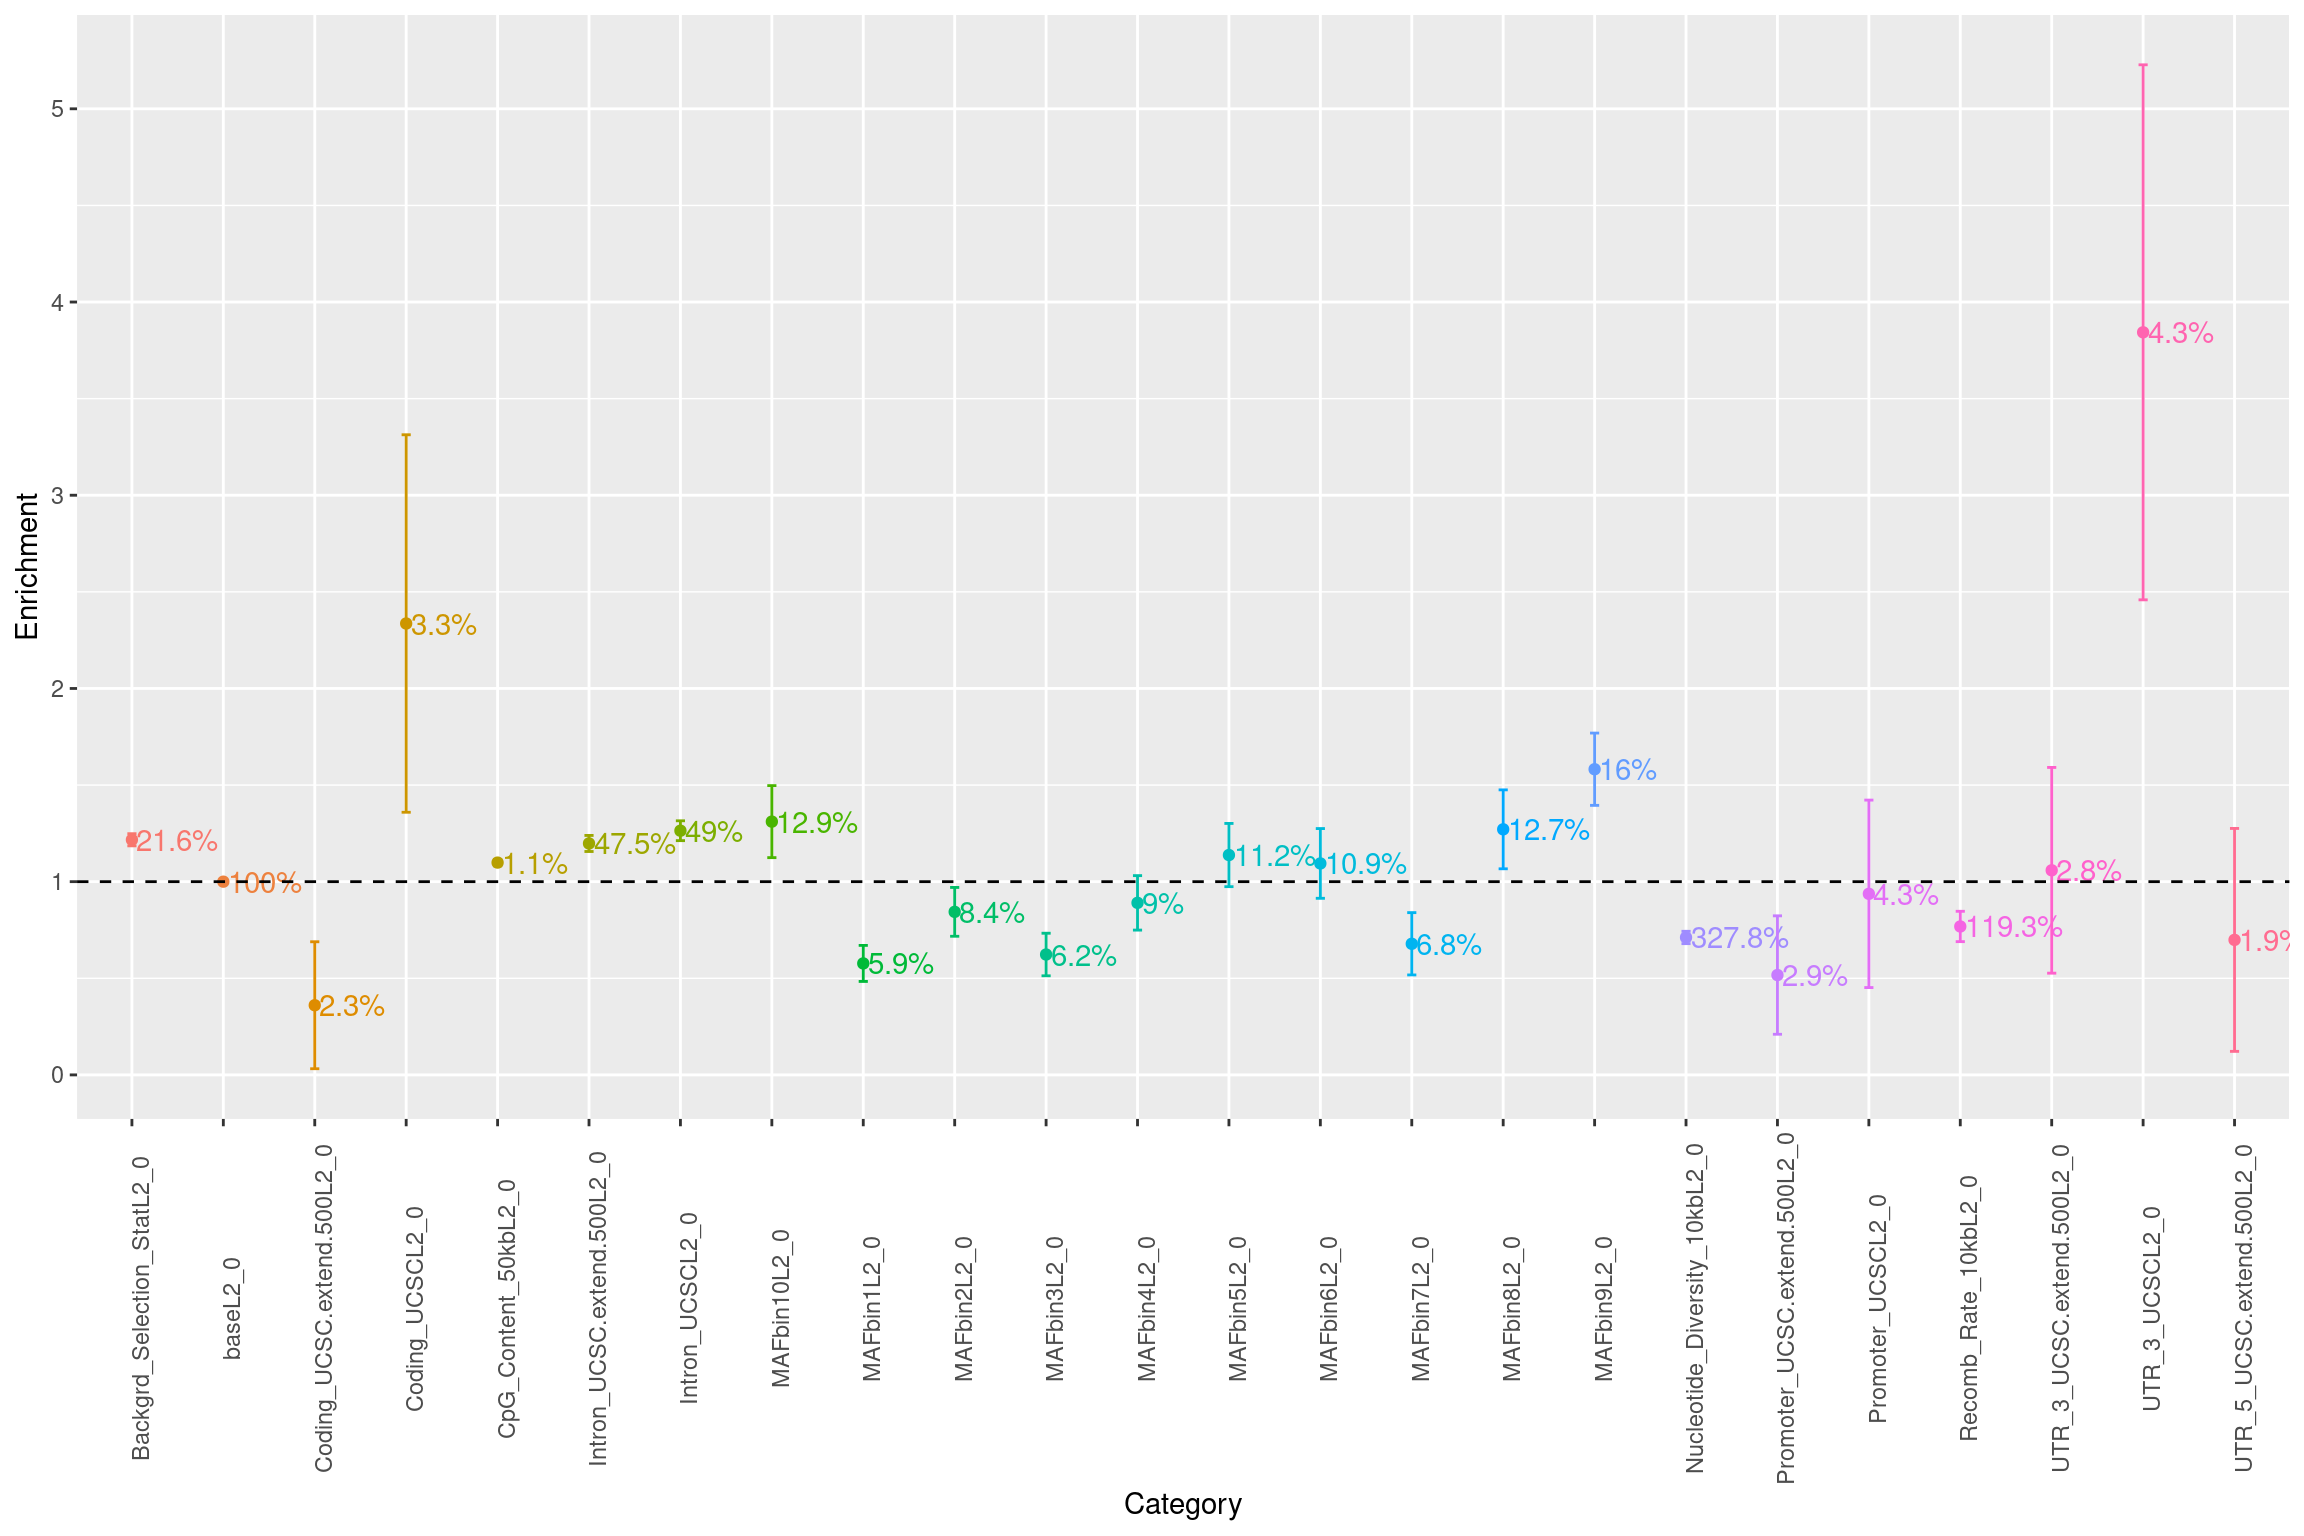
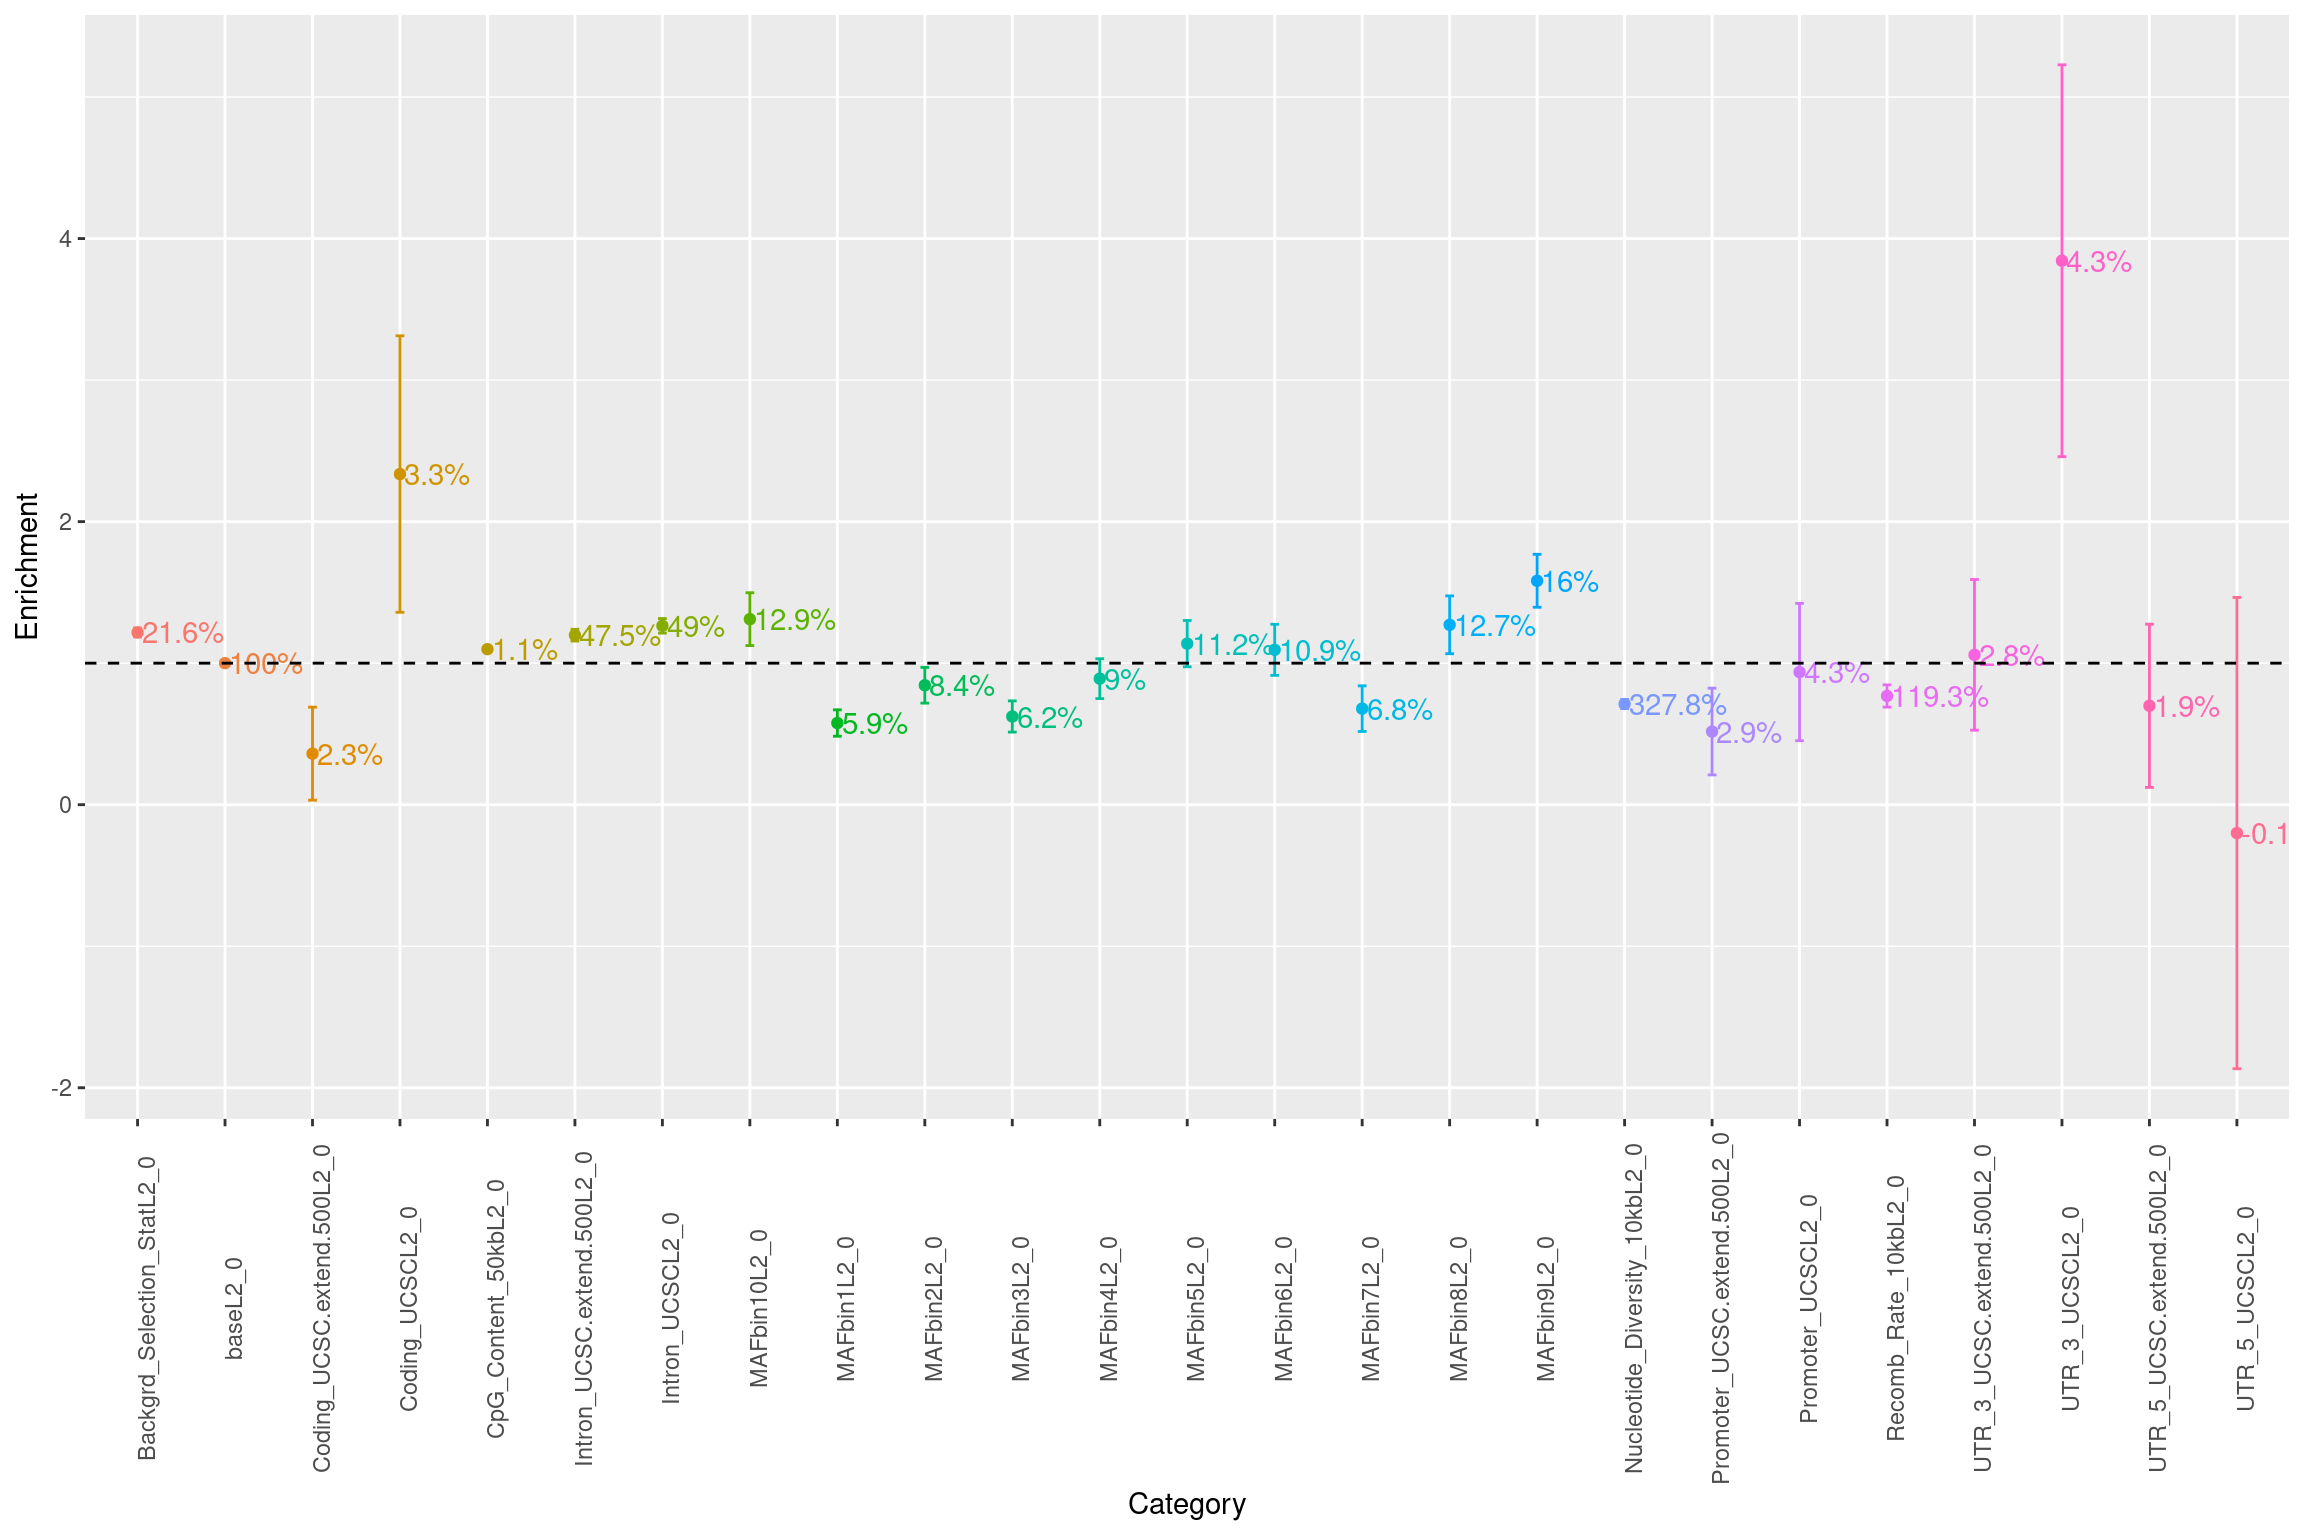
PTR annotations

diff --git a/docs/annotations_PTR.html b/docs/annotations_PTR.html
@@ -370,7 +370,7 @@ div.tocify {
 <div class="tab-content">
 <div id="summary" class="tab-pane fade in active">
 <p>
-<strong>Last updated:</strong> 2022-07-05
+<strong>Last updated:</strong> 2022-07-09
 </p>
 <p>
 <strong>Checks:</strong> <span class="glyphicon glyphicon-ok text-success" aria-hidden="true"></span> 5 <span class="glyphicon glyphicon-exclamation-sign text-danger" aria-hidden="true"></span> 2
@@ -493,16 +493,16 @@ data/qqplot_SNPs_high_spliceAI.png
 <div class="panel panel-default">
 <div class="panel-heading">
 <p class="panel-title">
-<a data-toggle="collapse" data-parent="#workflowr-checks" href="#strongRepositoryversionstrongahrefhttpsgithubcomj3gufuncFinemappingtree7f557c4374c445d05054e21127b2bd30ab210e30targetblank7f557c4a"> <span class="glyphicon glyphicon-ok text-success" aria-hidden="true"></span> <strong>Repository version:</strong> <a href="https://github.com/j3gu/funcFinemapping/tree/7f557c4374c445d05054e21127b2bd30ab210e30" target="_blank">7f557c4</a> </a>
+<a data-toggle="collapse" data-parent="#workflowr-checks" href="#strongRepositoryversionstrongahrefhttpsgithubcomj3gufuncFinemappingtree675a05fa63fc97b0b0b47f57c908edd2290aa0e7targetblank675a05fa"> <span class="glyphicon glyphicon-ok text-success" aria-hidden="true"></span> <strong>Repository version:</strong> <a href="https://github.com/j3gu/funcFinemapping/tree/675a05fa63fc97b0b0b47f57c908edd2290aa0e7" target="_blank">675a05f</a> </a>
 </p>
 </div>
[2 lines of base64/hex data omitted]
 <div class="panel-body">
 <p>
 Great! You are using Git for version control. Tracking code development and connecting the code version to the results is critical for reproducibility.
 </p>
 <p>
-The results in this page were generated with repository version <a href="https://github.com/j3gu/funcFinemapping/tree/7f557c4374c445d05054e21127b2bd30ab210e30" target="_blank">7f557c4</a>. See the <em>Past versions</em> tab to see a history of the changes made to the R Markdown and HTML files.
+The results in this page were generated with repository version <a href="https://github.com/j3gu/funcFinemapping/tree/675a05fa63fc97b0b0b47f57c908edd2290aa0e7" target="_blank">675a05f</a>. See the <em>Past versions</em> tab to see a history of the changes made to the R Markdown and HTML files.
 </p>
 <p>
 Note that you need to be careful to ensure that all relevant files for the analysis have been committed to Git prior to generating the results (you can use <code>wflow_publish</code> or <code>wflow_git_commit</code>). workflowr only checks the R Markdown file, but you know if there are other scripts or data files that it depends on. Below is the status of the Git repository when the results were generated:
@@ -1006,6 +1006,23 @@ Message
 html
 </td>
 <td>
+<a href="https://rawcdn.githack.com/j3gu/funcFinemapping/675a05fa63fc97b0b0b47f57c908edd2290aa0e7/docs/annotations_PTR.html" target="_blank">675a05f</a>
+</td>
+<td>
+Jing Gu
+</td>
+<td>
+2022-07-05
+</td>
+<td>
+PTR annotations
+</td>
+</tr>
+<tr>
+<td>
+html
+</td>
+<td>
 <a href="https://rawcdn.githack.com/j3gu/funcFinemapping/7f557c4374c445d05054e21127b2bd30ab210e30/docs/annotations_PTR.html" target="_blank">7f557c4</a>
 </td>
 <td>
@@ -1083,15 +1100,17 @@ We first tested annotations one at a time using both TORUS and S-LDSC.Then we jo
 <div id="enrichment-analysis-on-scz-gwas" class="section level3">
 <h3>Enrichment analysis on SCZ GWAS</h3>
 <p>To make it comparable, I run S-LDSC and Torus on the same set of test SNPs, which are around 1 million SNPs from hapmap3.</p>
-<p>Legends for the plots:</p>
+<p><em>Legends for the plots</em>:</p>
 <ul>
-<li>x-axis - annotations</li>
-<li>y-axis - fold of enrichment</li>
-<li>label on the plot - percent of narrow-sense heritability</li>
+<li>y-axis - annotations(% of SNPs within annotations)</li>
+<li>x-axis - fold of enrichment</li>
+<li>label on the plot - percent of SNP heritability explained by each annotation</li>
 <li>dashed line - no enrichment</li>
 </ul>
 <p><strong>S-LDSC</strong></p>
-<p>modified baselineLD model： genic features (introns excluded), LD, MAF, background selection, nucleotide diversity, promoter, recombination rate. annotations: spidex, spliceai, fetal brain m6a, neuronal OCR, differentially methylated regions in brains (DMR)</p>
+<p>modified baselines from m6A paper:<br />
+genic features (introns excluded), LD, MAF, background selection, nucleotide diversity, promoter, recombination rate.<br />
+annotations: spidex, spliceai, fetal brain m6a, neuronal OCR, differentially methylated regions in brains (DMR)</p>
 <p><img src="figure/annotations_PTR.Rmd/unnamed-chunk-4-1.png" width="672" style="display: block; margin: auto;" /></p>
 <p>
 <button type="button" class="btn btn-default btn-xs btn-workflowr btn-workflowr-fig" data-toggle="collapse" data-target="#fig-unnamed-chunk-4-1">
@@ -1141,6 +1160,7 @@ Jing Gu
 </table>
 </div>
 </div>
+<p><details> <summary>Fig 1.1 Enrichment of SCZ risk variants in each annotation from S-LDSC.</summary> All the annotations were binary. For instance, spliceai_binary&quot;X&quot; represents if a GWAS SNP is predicted to have a spliceAI score equal or higher than X. Spidex_top&quot;Y&quot; means if a GWAS SNP is predicted to have a spidex score among the top Y percent. The rest of the annotations are bed files and each GWAS SNP was asked whether it lies in the peak regions. </details></p>
 <p><strong>Examine baseline annotations</strong></p>
 <ul>
 <li>baseline annotations from m6A paper: baseline_gene_MAF_LD</li>
@@ -1185,6 +1205,7 @@ Jing Gu
 </table>
 </div>
 </div>
+<p><details> <summary>Fig 1.2 Baseline enrichment of SCZ risk variants from S-LDSC.</summary> The baseline models used in this analysis was from the m6A science paper. We observed that coding and 3'UTR regions show significant enrichment, but the overall contribution to SNP h2g is small(&lt;5%). While introns and their planking regions were slighty enriched, they contribute to ~50% of SNP heritability. </details></p>
 <p><strong>Torus</strong> <img src="figure/annotations_PTR.Rmd/unnamed-chunk-6-1.png" width="672" style="display: block; margin: auto;" /></p>
 <p>
 <button type="button" class="btn btn-default btn-xs btn-workflowr btn-workflowr-fig" data-toggle="collapse" data-target="#fig-unnamed-chunk-6-1">
@@ -1272,11 +1293,11 @@ Jing Gu
 </table>
 </div>
 </div>
-<p>With the same set of test SNPs, the enrichment estimates are similarly low between torus and LDSC. The enrichment signals seen in the previous runs for torus were gone, likely due to the background difference.</p>
+<p><details> <summary>Fig 1.3 Enrichment of SCZ risk variants in individual annotation from Torus.</summary> There is no baseline annotation jointly tested for each torus run. The first plot was generated using 1M hapmap SNPs, while the second one was from running torus over ~6M SNPs using our pipeline. </details></p>
+<p>With the same set of test SNPs, the enrichment estimates are similarly low between torus and LDSC for SCZ. The enrichment signals seen in the previous runs for torus were gone, likely due to the background difference.</p>
 </div>
 <div id="enrichment-analysis-on-afib-gwas" class="section level3">
 <h3>Enrichment analysis on AFib GWAS</h3>
-<p>Comparing LDSC and Torus with the same baselines</p>
 <p><img src="figure/annotations_PTR.Rmd/unnamed-chunk-8-1.png" width="672" style="display: block; margin: auto;" /></p>
 <p>
 <button type="button" class="btn btn-default btn-xs btn-workflowr btn-workflowr-fig" data-toggle="collapse" data-target="#fig-unnamed-chunk-8-1">
@@ -1326,8 +1347,9 @@ Jing Gu
 </table>
 </div>
 </div>
+<p><details> <summary>Fig 2.1 Enrichment of aFib risk variants in individual annotation from Torus.</summary> </details></p>
 <p>For aFib, we see significant enrichment of variants with spliceAI scores &gt;=0.05. Approximately, they contribute to 2.4% of SNP heritability based on taking a product of percent of variants within annotation and enrichment estimate. However, we did not see such enrichment in S-LDSC results. The possible reason might be the signal was drowned out in the baseline annotations.</p>
-<p><img src="figure/annotations_PTR.Rmd/unnamed-chunk-9-1.png" width="672" style="display: block; margin: auto;" /></p>
+<p><em>Comparing LDSC and Torus with the same baselines</em> <img src="figure/annotations_PTR.Rmd/unnamed-chunk-9-1.png" width="672" style="display: block; margin: auto;" /></p>
 <p>
 <button type="button" class="btn btn-default btn-xs btn-workflowr btn-workflowr-fig" data-toggle="collapse" data-target="#fig-unnamed-chunk-9-1">
 Past versions of unnamed-chunk-9-1.png
@@ -1403,6 +1425,7 @@ Jing Gu
 </table>
 </div>
 </div>
+<p><details> <summary>Fig 2.2 Comparing enrichments results between S-LDSC and TORUS with the same baselines</summary> The spliceAI related annotations were jointly run with the same baseline annotations one at a time over aFib risk variants. </details></p>
 <p>With the same baseline annotations, Torus produces lower but still significant enrichment estimates for the SNPs with spliceai &gt;=0.05. However, we see no enrichment in LDSC results based on either enrichment estimates or p-values.</p>
 </div>
 <div id="qq-plots-for-comparing-p-values" class="section level3">
@@ -1519,44 +1542,7 @@ Jing Gu
 </table>
 </div>
 </div>
-<p><strong>test annotations jointly</strong> <img src="figure/annotations_PTR.Rmd/unnamed-chunk-13-1.png" width="672" style="display: block; margin: auto;" /></p>
-<p>
-<button type="button" class="btn btn-default btn-xs btn-workflowr btn-workflowr-fig" data-toggle="collapse" data-target="#fig-unnamed-chunk-13-1">
-Past versions of unnamed-chunk-13-1.png
-</button>
-</p>
-<div id="fig-unnamed-chunk-13-1" class="collapse">
-<div class="table-responsive">
-<table class="table table-condensed table-hover">
-<thead>
-<tr>
-<th>
-Version
-</th>
-<th>
-Author
-</th>
-<th>
-Date
-</th>
-</tr>
-</thead>
-<tbody>
-<tr>
-<td>
-<a href="https://github.com/j3gu/funcFinemapping/blob/7f557c4374c445d05054e21127b2bd30ab210e30/docs/figure/annotations_PTR.Rmd/unnamed-chunk-13-1.png" target="_blank">7f557c4</a>
-</td>
-<td>
-Jing Gu
-</td>
-<td>
-2022-07-05
-</td>
-</tr>
-</tbody>
-</table>
-</div>
-</div>
+<p><details> <summary>S-LDSC Enrichment results across traits</summary> Enrichment estimates each with a 95% confidence interval for PTR annotations across various traits. </details></p>
 <br>
 <p>
 <button type="button" class="btn btn-default btn-workflowr btn-workflowr-sessioninfo" data-toggle="collapse" data-target="#workflowr-sessioninfo" style="display: block;">
